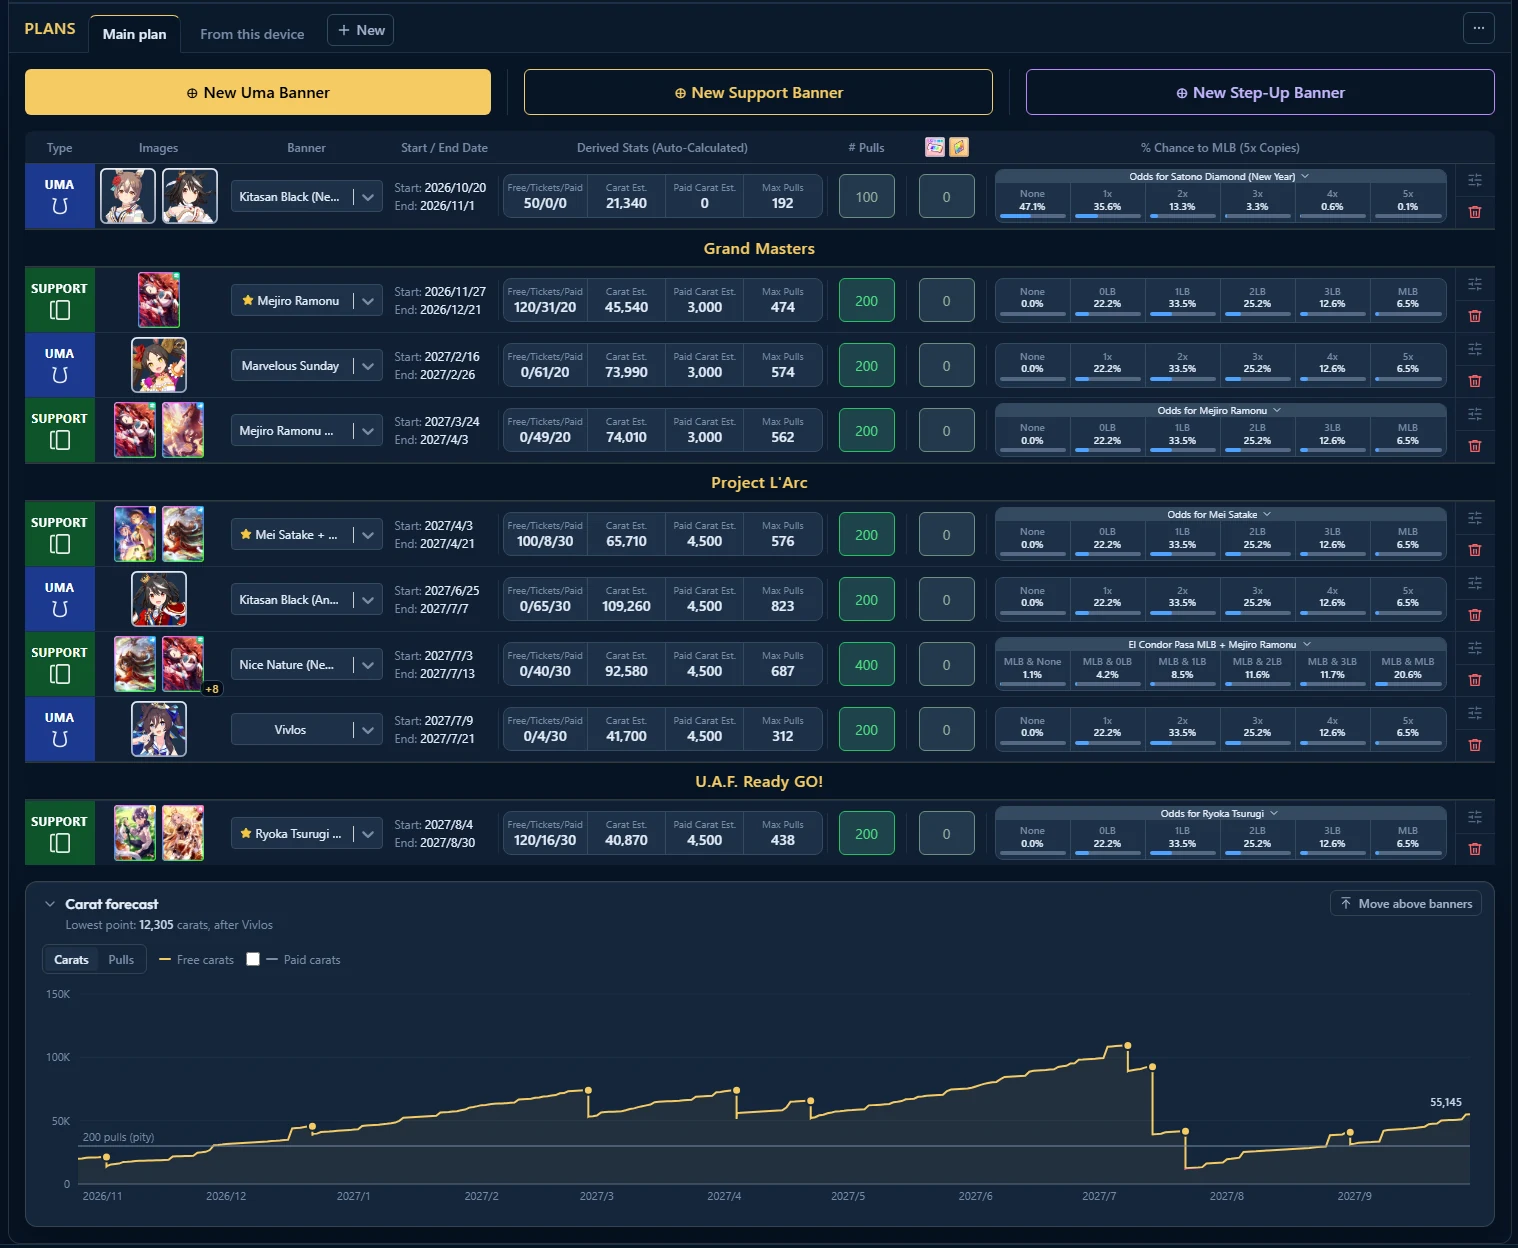
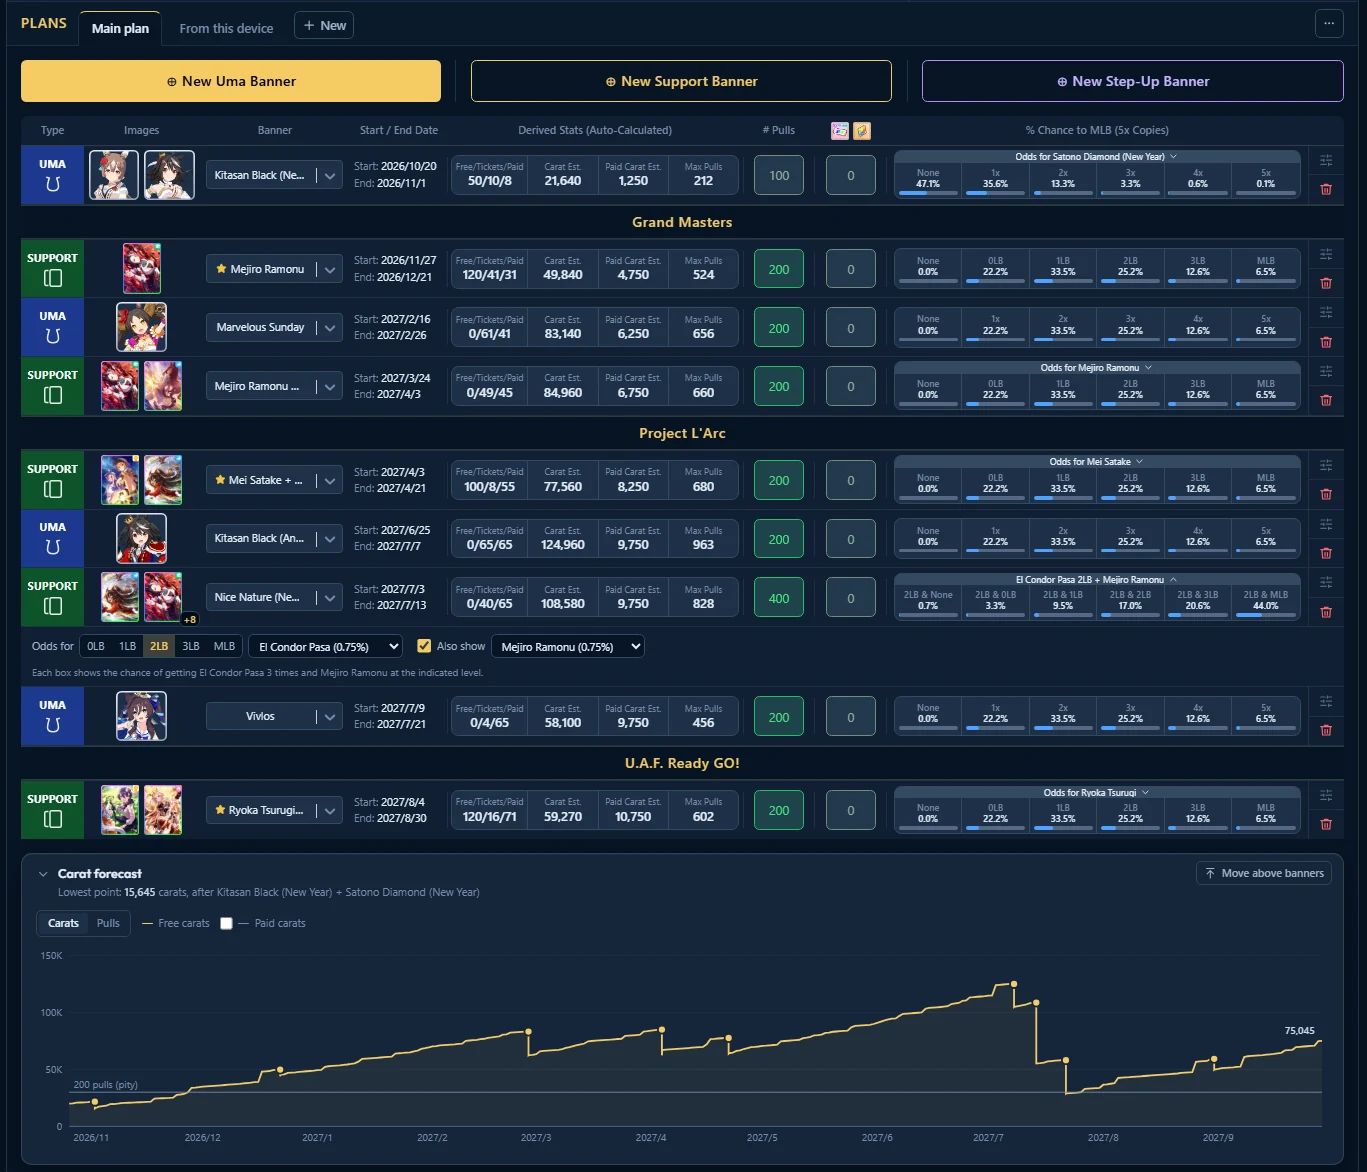
docs: README screenshots in default, midnight and light themes, and a second timeline view

Changed region(s): [[0.0, 0.0, 1.0, 1.0], [0.9525, 0.0, 1.0, 0.0922], [0.6452, 0.0614, 0.7067, 0.0922]]

diff --git a/README.md b/README.md
@@ -22,6 +22,7 @@ each banner ends, before they spend rather than after.
   events). Pick the banners you want and how many pulls each, and every row shows the carats and
   tickets left at that banner's end, with the odds of getting the card.
 - **A forecast chart** of carats and pulls over time, with optional layers.
+- **Twelve themes**, dark and light, and a colorblind mode.
 - **Several plans per account**, each shareable by link. A shared link unfurls in Discord and on X
   with a server-drawn preview of the plan's totals.
 - **Step-up banners, selector tickets and campaign packs**, each with its own rules.
@@ -34,12 +35,22 @@ each banner ends, before they spend rather than after.
 <table>
 <tr>
 <td width="50%" align="center" valign="top">
-<b>The plan and its carat forecast</b><br><br>
-<img src="docs/images/planner-forecast.webp" alt="A year of planned banners grouped by in-game scenario, above the carat forecast chart" width="100%">
+<b>The plan, its odds and the carat forecast</b><br><br>
+<img src="docs/images/planner-forecast.webp" alt="A year of planned banners grouped by in-game scenario, one row's odds options open, above the carat forecast chart (midnight theme)" width="100%">
 </td>
 <td width="50%" align="center" valign="top">
+<b>Light themes, and a colorblind mode</b><br><br>
+<img src="docs/images/planner-light.webp" alt="The planner in a light theme with the theme picker open" width="100%">
+</td>
+</tr>
+<tr>
+<td width="50%" align="center" valign="top">
 <b>The timeline</b><br><br>
-<img src="docs/images/timeline.webp" alt="Upcoming banners and a Champions Meeting on the timeline" width="100%">
+<img src="docs/images/timeline.webp" alt="Upcoming banners on the timeline, with their featured umas and support cards" width="100%">
+</td>
+<td width="50%" align="center" valign="top">
+<b>Campaigns, scenarios and race events</b><br><br>
+<img src="docs/images/timeline-campaigns.webp" alt="A Champions Meeting's course details, an anniversary campaign, a new scenario, and a banner inside the campaign" width="100%">
 </td>
 </tr>
 <tr>
